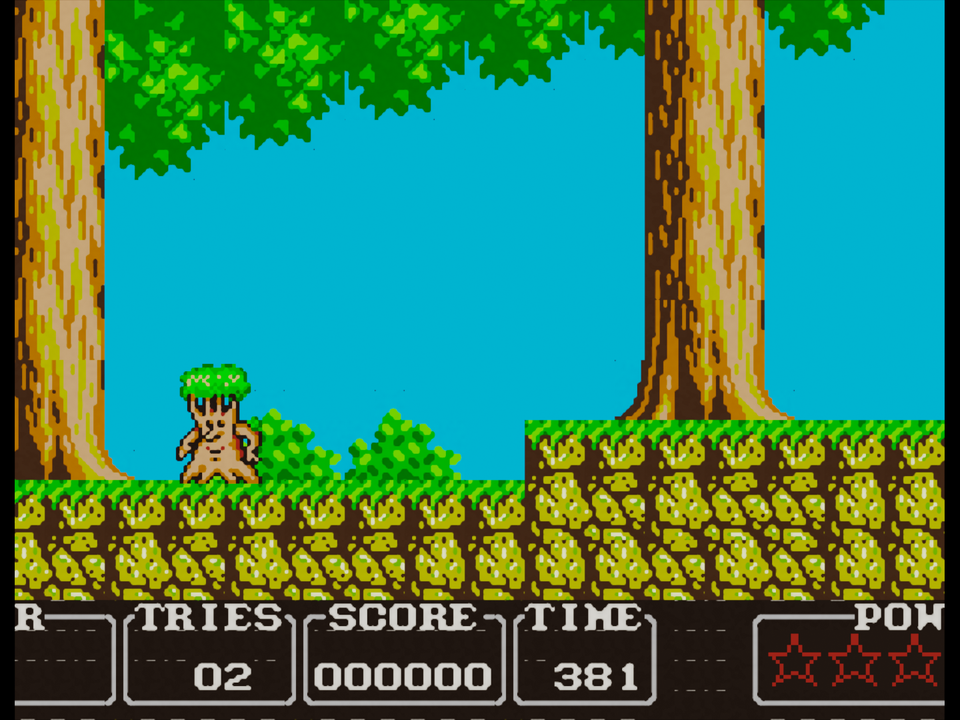
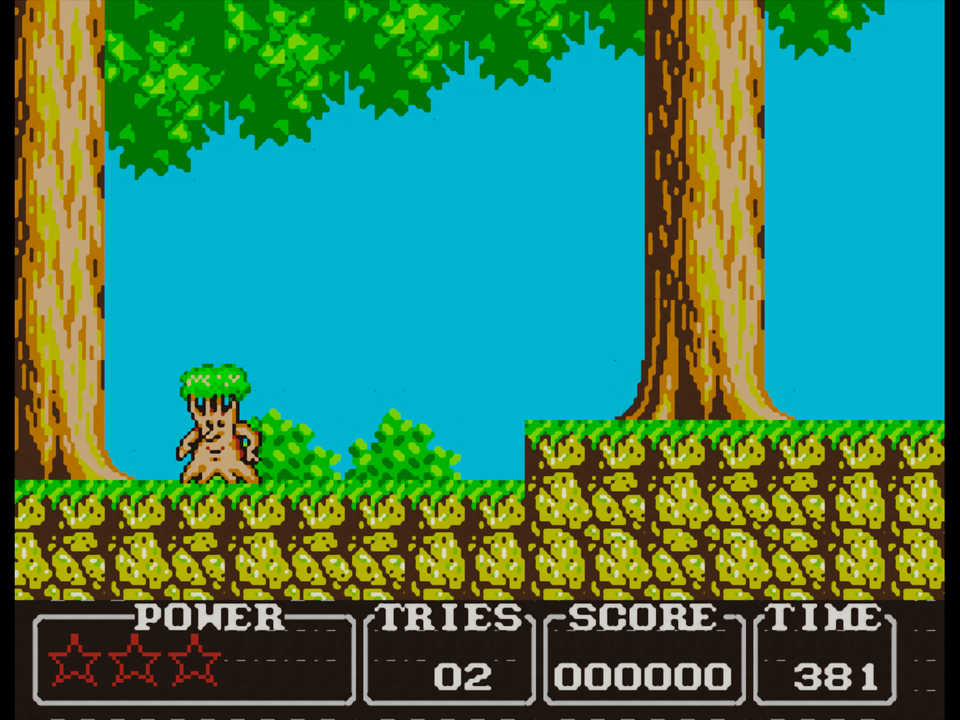
fix(hd): use per-line horizontal scroll for mid-frame HUD
Games such as Castle of Illusion change the horizontal scroll mid-frame for the status bar. The HD layer was applying the final scroll to every row, wrapping the HUD text. Capture the effective scroll per line and use it when drawing background tiles.

Changed region(s): [[0.0, 0.825, 1.0, 1.0]]

diff --git a/pkg/vdp/vdp.go b/pkg/vdp/vdp.go
@@ -93,6 +93,15 @@ type VDP struct {
 	irq         bool
 	IsPAL       bool
 
+	// LineScrollX/LineScrollY guardan el scroll efectivo de cada línea. Algunos
+	// juegos cambian el scroll a mitad de frame (HUD fijo, parallax); el
+	// renderizador HD los necesita para no arrastrar el scroll de la última
+	// línea a toda la pantalla.
+	LineScrollX [ScreenH]byte
+	LineScrollY [ScreenH]byte
+	// LineScrollValid indica que el frame actual ya capturó el scroll por línea.
+	LineScrollValid bool
+
 	// Frame es el framebuffer RGBA (256x192) listo para volcar.
 	Frame [ScreenW * ScreenH * 4]byte
 }
@@ -281,6 +290,11 @@ func (v *VDP) RenderLine(line int) {
 	// R0 D6: las dos primeras filas (16 px) no se desplazan en horizontal.
 	if v.Reg[0]&0x40 != 0 && line < 16 {
 		scrollX = 0
+	}
+	if line >= 0 && line < ScreenH {
+		v.LineScrollX[line] = byte(scrollX)
+		v.LineScrollY[line] = byte(scrollY)
+		v.LineScrollValid = true
 	}
 
 	var bgPri [ScreenW]bool

diff --git a/pkg/machine/hd_draw.go b/pkg/machine/hd_draw.go
@@ -198,7 +198,16 @@ func (hd *HDRenderer) DrawLayer(v *vdp.VDP, screen, heightDst *ebiten.Image, sca
 		row := (bgY >> 3) % 28
 
 		sx := scrollX
-		if hScrollLock && (tileDrawY < 16) {
+		if v.LineScrollValid {
+			lineForScroll := tileDrawY
+			if lineForScroll < 0 {
+				lineForScroll = 0
+			}
+			if lineForScroll >= vdp.ScreenH {
+				lineForScroll = vdp.ScreenH - 1
+			}
+			sx = int(v.LineScrollX[lineForScroll])
+		} else if hScrollLock && tileDrawY < 16 {
 			sx = 0
 		}
 		fineX := sx & 7
